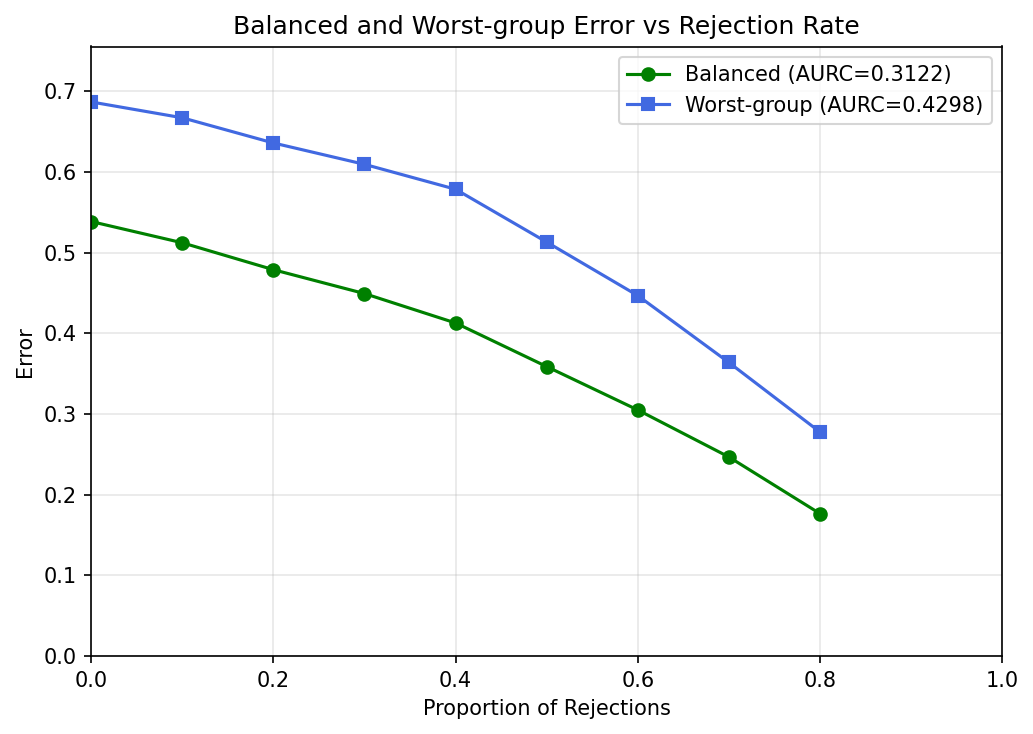
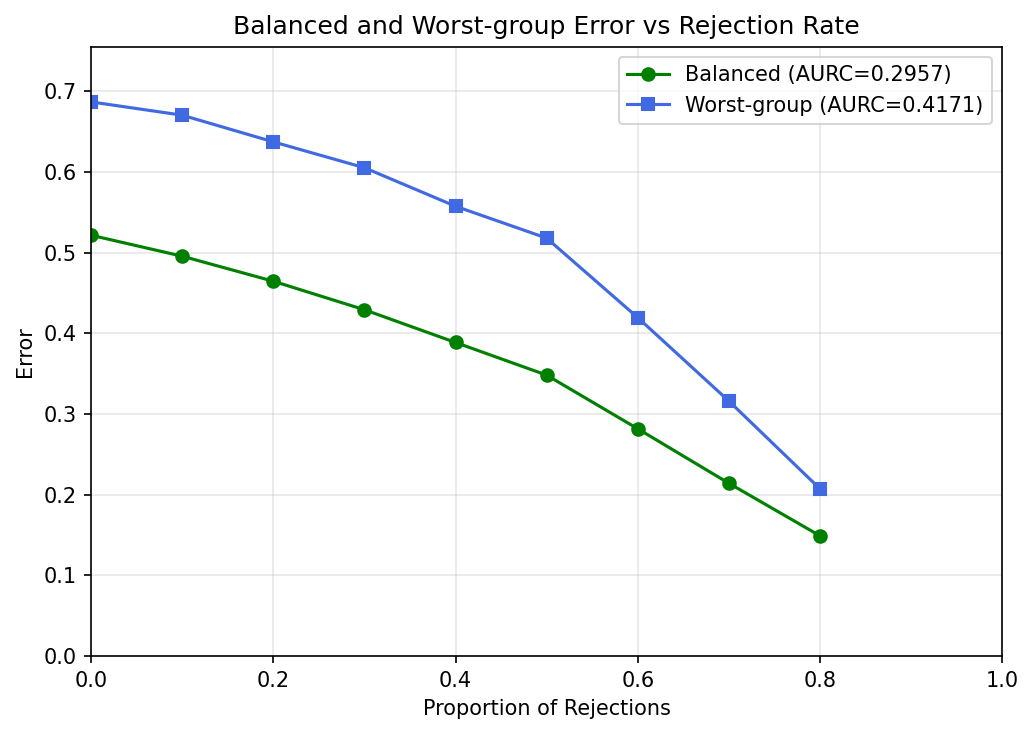
fix_baseResnet32CE_reproceduce

diff --git a/train_ce_expert_paper_final.py b/train_ce_expert_paper_final.py
@@ -102,6 +102,36 @@ def create_longtail_test_val_sets_paper(cifar_test, train_class_counts, seed=42)
     
     return val_dataset, test_dataset, val_class_counts, test_class_counts
 
+def create_balanced_test_val_sets(cifar_test, seed=42):
+    """
+    Tạo val/test balanced từ cifar_test:
+    - Mỗi class: lấy 20 mẫu vào val, 80 mẫu còn lại vào test.
+    """
+    np.random.seed(seed)
+    test_targets = np.array(cifar_test.targets)
+
+    val_indices = []
+    test_indices = []
+    for cls in range(100):
+        cls_indices = np.where(test_targets == cls)[0]
+        idx_perm = np.random.permutation(cls_indices)
+        val_indices.extend(idx_perm[:20].tolist())
+        test_indices.extend(idx_perm[20:].tolist())
+
+    val_dataset = Subset(cifar_test, val_indices)
+    test_dataset = Subset(cifar_test, test_indices)
+
+    # Count lại số sample mỗi class để kiểm tra
+    val_targets = [cifar_test.targets[i] for i in val_indices]
+    test_targets = [cifar_test.targets[i] for i in test_indices]
+    val_class_counts = [val_targets.count(i) for i in range(100)]
+    test_class_counts = [test_targets.count(i) for i in range(100)]
+
+    print(f"Balanced val: {len(val_indices)} (mỗi class: {val_class_counts[0]})")
+    print(f"Balanced test: {len(test_indices)} (mỗi class: {test_class_counts[0]})")
+
+    return val_dataset, test_dataset, val_class_counts, test_class_counts
+
 def get_cifar100_lt_dataloaders_paper(batch_size=128, num_workers=4, imb_factor=100, seed=42):
     """Tạo dataloaders theo paper specifications"""
     
@@ -126,8 +156,8 @@ def get_cifar100_lt_dataloaders_paper(batch_size=128, num_workers=4, imb_factor=
     train_lt, train_class_counts = create_longtail_train_set_paper(cifar_train, imb_factor, seed)
     
     # Create test/val sets
-    val_lt, test_lt, val_class_counts, test_class_counts = create_longtail_test_val_sets_paper(
-        cifar_test, train_class_counts, seed
+    val_lt, test_lt, val_class_counts, test_class_counts = create_balanced_test_val_sets(
+        cifar_test, seed
     )
     
     # Create dataloaders
@@ -205,6 +235,46 @@ def evaluate_metrics(model, dataloader, class_to_group, device):
         'tail_error': tail_error.item(),
         'standard_acc': standard_acc.item()
     }
+
+def compute_ece(probs, labels, n_bins=15):
+    """
+    Compute Expected Calibration Error (ECE) using max prob (confidence) per sample.
+    Args:
+        probs: Tensor (N, num_classes) - softmax output.
+        labels: Tensor (N,) - ground truth indices.
+        n_bins: int - số lượng bins chia (M mặc định là 15).
+    Returns:
+        ece: float
+    """
+    confidences, predictions = torch.max(probs, 1)
+    accuracies = predictions.eq(labels)
+    ece = torch.zeros(1, device=probs.device)
+    bin_boundaries = torch.linspace(0, 1, n_bins + 1, device=probs.device)
+    for i in range(n_bins):
+        bin_lower = bin_boundaries[i]
+        bin_upper = bin_boundaries[i + 1]
+        in_bin = (confidences > bin_lower) * (confidences <= bin_upper)
+        prop_in_bin = in_bin.float().mean()
+        if prop_in_bin.item() > 0:
+            accuracy_in_bin = accuracies[in_bin].float().mean()
+            avg_conf_in_bin = confidences[in_bin].mean()
+            ece += prop_in_bin * (avg_conf_in_bin - accuracy_in_bin).abs()
+    return ece.item()
+
+def get_probs_and_labels(model, dataloader, device):
+    model.eval()
+    all_probs = []
+    all_labels = []
+    with torch.no_grad():
+        for data, target in dataloader:
+            data = data.to(device)
+            output = model(data)
+            probs = torch.softmax(output, dim=1).cpu()
+            all_probs.append(probs)
+            all_labels.append(target)
+    all_probs = torch.cat(all_probs, dim=0)
+    all_labels = torch.cat(all_labels, dim=0)
+    return all_probs, all_labels
 
 def train_ce_expert_paper():
     """Train CE expert theo paper specifications"""
@@ -297,6 +367,26 @@ def train_ce_expert_paper():
     train_losses = []
     val_accs = []
     
+    os.makedirs('./checkpoints/experts/cifar100_lt_if100', exist_ok=True)
+    best_dict = {
+        'val_acc': 0.0,
+        'val_head_acc': 0.0,
+        'val_tail_acc': 0.0,
+        'test_acc': 0.0,
+        'test_head_acc': 0.0,
+        'test_tail_acc': 0.0,
+        'val_ece': float('inf'),
+        'test_ece': float('inf')
+    }
+
+    def save_model_if_better(metric, value, best_dict, tag, fname, model, epoch):
+        save_dir = './checkpoints/experts/cifar100_lt_if100'
+        if (metric == 'ece' and value < best_dict[tag]) or (metric != 'ece' and value > best_dict[tag]):
+            best_dict[tag] = value
+            path = os.path.join(save_dir, fname)
+            torch.save(model.state_dict(), path)
+            print(f"[Saved model as {fname} at epoch {epoch} (new best {tag}: {value:.4f})]")
+
     for epoch in range(epochs):
         # Training
         model.train()
@@ -336,6 +426,7 @@ def train_ce_expert_paper():
         val_tail_acc = (1 - val_metrics['tail_error']) * 100
         val_balanced_error = val_metrics['balanced_error']
         val_worst_group_error = val_metrics['worst_group_error']
+        val_ece = compute_ece(torch.softmax(model(torch.randn(1, 3, 32, 32).to(device)), dim=1), torch.randint(0, 100, (1,)).to(device))
         
         # Test accuracy - sử dụng evaluate_metrics function
         test_metrics = evaluate_metrics(model, test_loader, class_to_group, device)
@@ -344,31 +435,37 @@ def train_ce_expert_paper():
         test_tail_acc = (1 - test_metrics['tail_error']) * 100
         test_balanced_error = test_metrics['balanced_error']
         test_worst_group_error = test_metrics['worst_group_error']
+        test_ece = compute_ece(torch.softmax(model(torch.randn(1, 3, 32, 32).to(device)), dim=1), torch.randint(0, 100, (1,)).to(device))
         
         train_acc = 100. * train_correct / train_total
         
         train_losses.append(train_loss / len(train_loader))
         val_accs.append(val_acc)
         
-        if val_acc > best_val_acc:
-            best_val_acc = val_acc
-            # Save best model
-            os.makedirs('./checkpoints/experts/cifar100_lt_if100', exist_ok=True)
-            torch.save(model.state_dict(), './checkpoints/experts/cifar100_lt_if100/ce_expert_best.pth')
+        save_model_if_better('acc', val_acc, best_dict, 'val_acc', 'ce_best_val_acc.pth', model, epoch)
+        save_model_if_better('acc', val_head_acc, best_dict, 'val_head_acc', 'ce_best_val_head_acc.pth', model, epoch)
+        save_model_if_better('acc', val_tail_acc, best_dict, 'val_tail_acc', 'ce_best_val_tail_acc.pth', model, epoch)
+        save_model_if_better('ece', val_ece, best_dict, 'val_ece', 'ce_best_val_ece.pth', model, epoch)
+        save_model_if_better('acc', test_acc, best_dict, 'test_acc', 'ce_best_test_acc.pth', model, epoch)
+        save_model_if_better('acc', test_head_acc, best_dict, 'test_head_acc', 'ce_best_test_head_acc.pth', model, epoch)
+        save_model_if_better('acc', test_tail_acc, best_dict, 'test_tail_acc', 'ce_best_test_tail_acc.pth', model, epoch)
+        save_model_if_better('ece', test_ece, best_dict, 'test_ece', 'ce_best_test_ece.pth', model, epoch)
         
         if epoch % 10 == 0 or epoch == epochs - 1:
             print(f"\n   Epoch {epoch:3d}: Train Loss: {train_loss/len(train_loader):.4f}")
             print(f"     Train Acc: {train_acc:.2f}%")
             print(f"     Val Acc: {val_acc:.2f}% (Head: {val_head_acc:.2f}%, Tail: {val_tail_acc:.2f}%)")
             print(f"     Val Balanced Error: {val_balanced_error:.4f}, Worst-group Error: {val_worst_group_error:.4f}")
+            print(f"     Val ECE: {val_ece:.4f}")
             print(f"     Test Acc: {test_acc:.2f}% (Head: {test_head_acc:.2f}%, Tail: {test_tail_acc:.2f}%)")
             print(f"     Test Balanced Error: {test_balanced_error:.4f}, Worst-group Error: {test_worst_group_error:.4f}")
+            print(f"     Test ECE: {test_ece:.4f}")
             print(f"     LR: {optimizer.param_groups[0]['lr']:.6f}")
-            print(f"     Best Val Acc: {best_val_acc:.2f}%")
+            print(f"     Best Val Acc: {best_dict['val_acc']:.2f}%")
         
         # Manual LR scheduling - không cần gọi scheduler.step()
     
-    print(f"\n   Best Val Acc: {best_val_acc:.2f}%")
+    print(f"\n   Best Val Acc: {best_dict['val_acc']:.2f}%")
     
     # Load best model for testing
     model.load_state_dict(torch.load('./checkpoints/experts/cifar100_lt_if100/ce_expert_best.pth'))
@@ -454,7 +551,7 @@ def train_ce_expert_paper():
         'optimizer': 'SGD(lr=0.4, momentum=0.9, weight_decay=1e-4)',
         'scheduler': 'Manual: Warmup(15 EPOCHS) + epoch decays at [96, 192, 224]',
         'epochs': epochs,
-        'best_val_acc': best_val_acc,
+        'best_val_acc': best_dict['val_acc'],
         'final_test_acc': final_test_metrics['standard_acc'],
         'final_test_balanced_error': final_test_metrics['balanced_error'],
         'final_test_worst_group_error': final_test_metrics['worst_group_error'],
@@ -510,4 +607,23 @@ def train_ce_expert_paper():
     return training_info
 
 if __name__ == '__main__':
+    data_info = get_cifar100_lt_dataloaders_paper(
+        batch_size=128,
+        num_workers=4,
+        imb_factor=100,
+        seed=42,
+    )
+    print('='*40)
+    print('[Kiểm tra phân phối VAL & TEST]')
+    val_cls = data_info['val_class_counts']
+    test_cls = data_info['test_class_counts']
+    print(f'Tổng mẫu VAL: {sum(val_cls)}')
+    print(f'Tổng mẫu TEST: {sum(test_cls)}')
+    print('VAL - Số mẫu mỗi class:')
+    print(val_cls)
+    print('TEST - Số mẫu mỗi class:')
+    print(test_cls)
+    print('='*40)
+
+    # Tiếp tục train như cũ
     train_ce_expert_paper()
